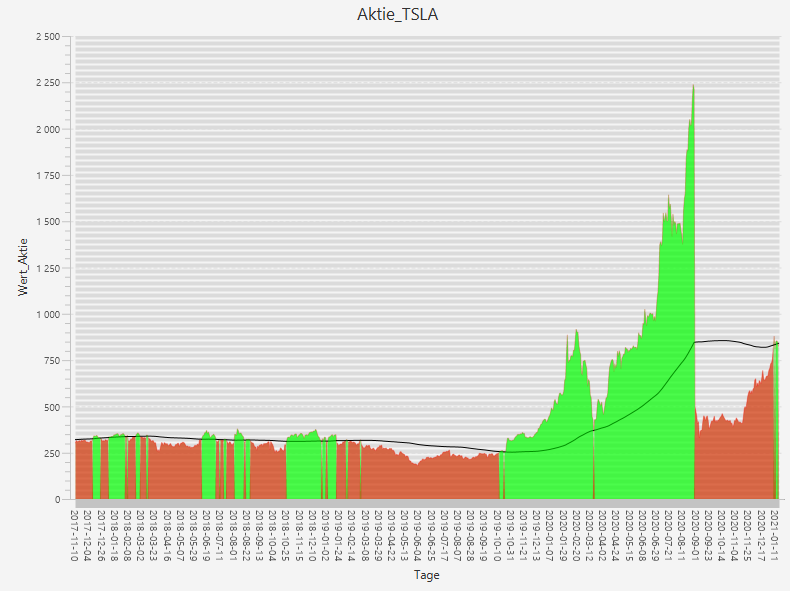
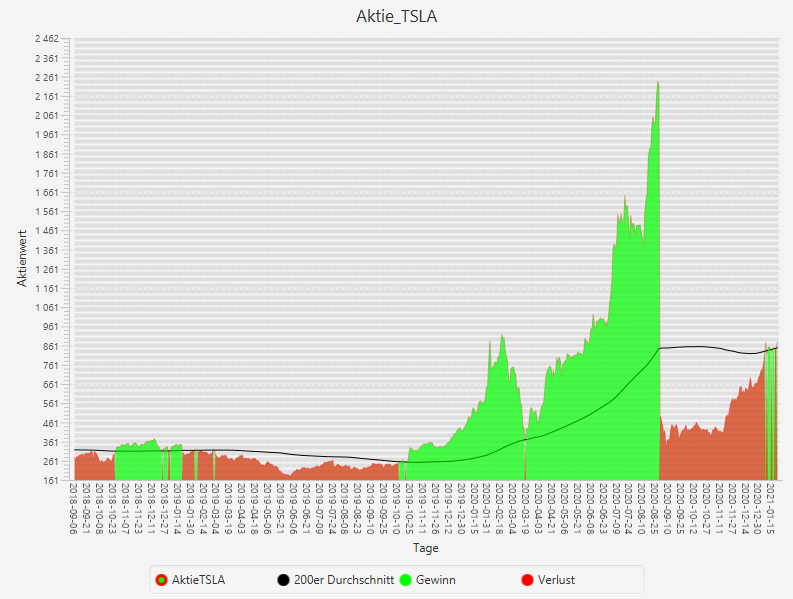
SWP

Changed region(s): [[0.0, 0.0609, 1.0, 1.0], [0.4557, 0.0, 0.5468, 0.0609]]

diff --git a/4.Klasse/SWP_Normal/Projekte/Projekt2/Aktienkurs/src/API_Aktienkurs/style.css b/4.Klasse/SWP_Normal/Projekte/Projekt2/Aktienkurs/src/API_Aktienkurs/style.css
@@ -1,4 +1,4 @@
-.default-color0.chart-area-symbol { -fx-background-color: #FF0000, #FF0000;}
+.default-color0.chart-area-symbol { -fx-background-color: #FF0000, #00FF00;}
 .default-color1.chart-area-symbol { -fx-background-color: #000000, #000000;}
 .default-color2.chart-area-symbol { -fx-background-color: #00FF00, #00FF00;}
 .default-color3.chart-area-symbol { -fx-background-color: #FF0000, #FF0000;}
@@ -13,3 +13,4 @@
 .default-color2.chart-series-area-fill { -fx-fill: #00FF0090;}
 .default-color3.chart-series-area-fill { -fx-fill: #FF000090;}
 
+/*FF0000, #f8f8f8*/

diff --git a/4.Klasse/SWP_Normal/Projekte/Projekt2/Aktienkurs/src/API_Aktienkurs/JavaFX.java b/4.Klasse/SWP_Normal/Projekte/Projekt2/Aktienkurs/src/API_Aktienkurs/JavaFX.java
@@ -5,10 +5,13 @@ import java.sql.Connection;
 import java.sql.DriverManager;
 import java.sql.ResultSet;
 import java.sql.Statement;
+import java.time.LocalDate;
 import java.util.ArrayList;
 import java.util.Scanner;
 
 import javafx.application.Application;
+import javafx.collections.FXCollections;
+import javafx.collections.ObservableList;
 import javafx.scene.Node;
 import javafx.scene.Scene;
 import javafx.scene.chart.AreaChart;
@@ -25,18 +28,19 @@ public class JavaFX extends Application {
 	
 	@Override public void start(Stage stage) throws Exception {
 	 	
-		 final NumberAxis yAchse=new NumberAxis();
+		 final NumberAxis yAchse=new NumberAxis(1, 10, 1);
 		 final CategoryAxis xAchse=new CategoryAxis();
+		 
 		
 		 final AreaChart<String, Number> areaChart=new AreaChart<String, Number>(xAchse, yAchse);
 		 areaChart.setTitle("Aktie_"+TestMain.typ);
 		 areaChart.setCreateSymbols(false);
-		 areaChart.setLegendVisible(false);
 		 xAchse.setLabel("Tage");
-		 yAchse.setLabel("Wert_Aktie");
+		 yAchse.setLabel("Aktienwert");
 		
 		 XYChart.Series series_aktie= new XYChart.Series();
 		 XYChart.Series series_durchschnitt= new XYChart.Series();
+		 series_aktie.setName("Aktie"+TestMain.typ);
 		 series_durchschnitt.setName("200er Durchschnitt");
 		 ArrayList<Double> aktie=new ArrayList<Double>();
 		 ArrayList<Double> durchschnitt=new ArrayList<Double>();
@@ -48,14 +52,13 @@ public class JavaFX extends Application {
 				Statement stat=con.createStatement();
 				ResultSet reSe=stat.executeQuery("select * from Aktie_"+TestMain.typ+" where id<="+zaehler+" order by ID desc");
 				while(reSe.next()) {
-					series_aktie.getData().add(new XYChart.Data(reSe.getString("Zeitpunkt"), Double.parseDouble(reSe.getString("TagesEndPreis"))));
+					series_aktie.getData().add(new XYChart.Data(reSe.getString("Zeitpunkt"),Double.parseDouble(reSe.getString("TagesEndPreis"))));
 					aktie.add(Double.parseDouble(reSe.getString("TagesEndPreis")));
 					datum.add(reSe.getString("Zeitpunkt"));
-					zaehler++;
 				}
 
 				reSe=stat.executeQuery("select a.Zeitpunkt, b.Durchschnitt from Aktie_"+TestMain.typ+"_200erDurchschnitt b inner join Aktie_"+TestMain.typ+" a on a.ID=b.ID order by b.ID desc");
-				while(reSe.next()) {	
+				while(reSe.next()) {
 					series_durchschnitt.getData().add(new XYChart.Data(reSe.getString("Zeitpunkt"), Double.parseDouble(reSe.getString("Durchschnitt"))));
 					durchschnitt.add(Double.parseDouble(reSe.getString("Durchschnitt")));
 				}
@@ -67,10 +70,18 @@ public class JavaFX extends Application {
 		
 		 XYChart.Series series_gruen= new XYChart.Series();
 		 XYChart.Series series_rot= new XYChart.Series();
-		 series_gruen.setName("Aktie(Gewinn)");
-		 series_rot.setName("Aktie(Verlust)");
+		 series_gruen.setName("Gewinn");
+		 series_rot.setName("Verlust");
 		 
+		 double min=10000;
+		 double max=0;
 		 for(int i=0; i<series_aktie.getData().size(); i++) {
+			 if(aktie.get(i)>max) {
+				 max=aktie.get(i);
+			 }
+			 if(aktie.get(i)<min) {
+				 min=aktie.get(i);
+			 }
 			 if(aktie.get(i)>durchschnitt.get(i)){
 				 series_gruen.getData().add(new XYChart.Data(datum.get(i), aktie.get(i)));
 				 series_rot.getData().add(new XYChart.Data(datum.get(i), 0.0));
@@ -80,7 +91,14 @@ public class JavaFX extends Application {
 					 series_gruen.getData().add(new XYChart.Data(datum.get(i), 0.0));
 				 }
 			 }
-		 }	
+		 }
+		 
+		 yAchse.setLowerBound((int)(min-(min*0.1)));
+		 yAchse.setUpperBound((int)(max+(max*0.1)));
+		 yAchse.setTickUnit(100);
+		 xAchse.setTickMarkVisible(false);
+
+		 
 		 Scene scene=new Scene(areaChart, 800, 600);
 		 scene.getStylesheets().add("API_Aktienkurs/style.css");
 		 areaChart.getData().addAll(series_aktie, series_durchschnitt, series_gruen, series_rot);

diff --git a/4.Klasse/SWP_Normal/Projekte/Projekt2/Aktienkurs/src/API_Aktienkurs/TestMain.java b/4.Klasse/SWP_Normal/Projekte/Projekt2/Aktienkurs/src/API_Aktienkurs/TestMain.java
@@ -7,7 +7,7 @@ public abstract class TestMain{
 	
 	static String host="localhost:3306", database="Aktien", user="root", passwort="sh30112002";
 	static String typ;
-	static int anzahlTage=1000;
+	static int anzahlTage=800;
 	
 	public static void main(String[] args) throws Exception {
 		angaben();
